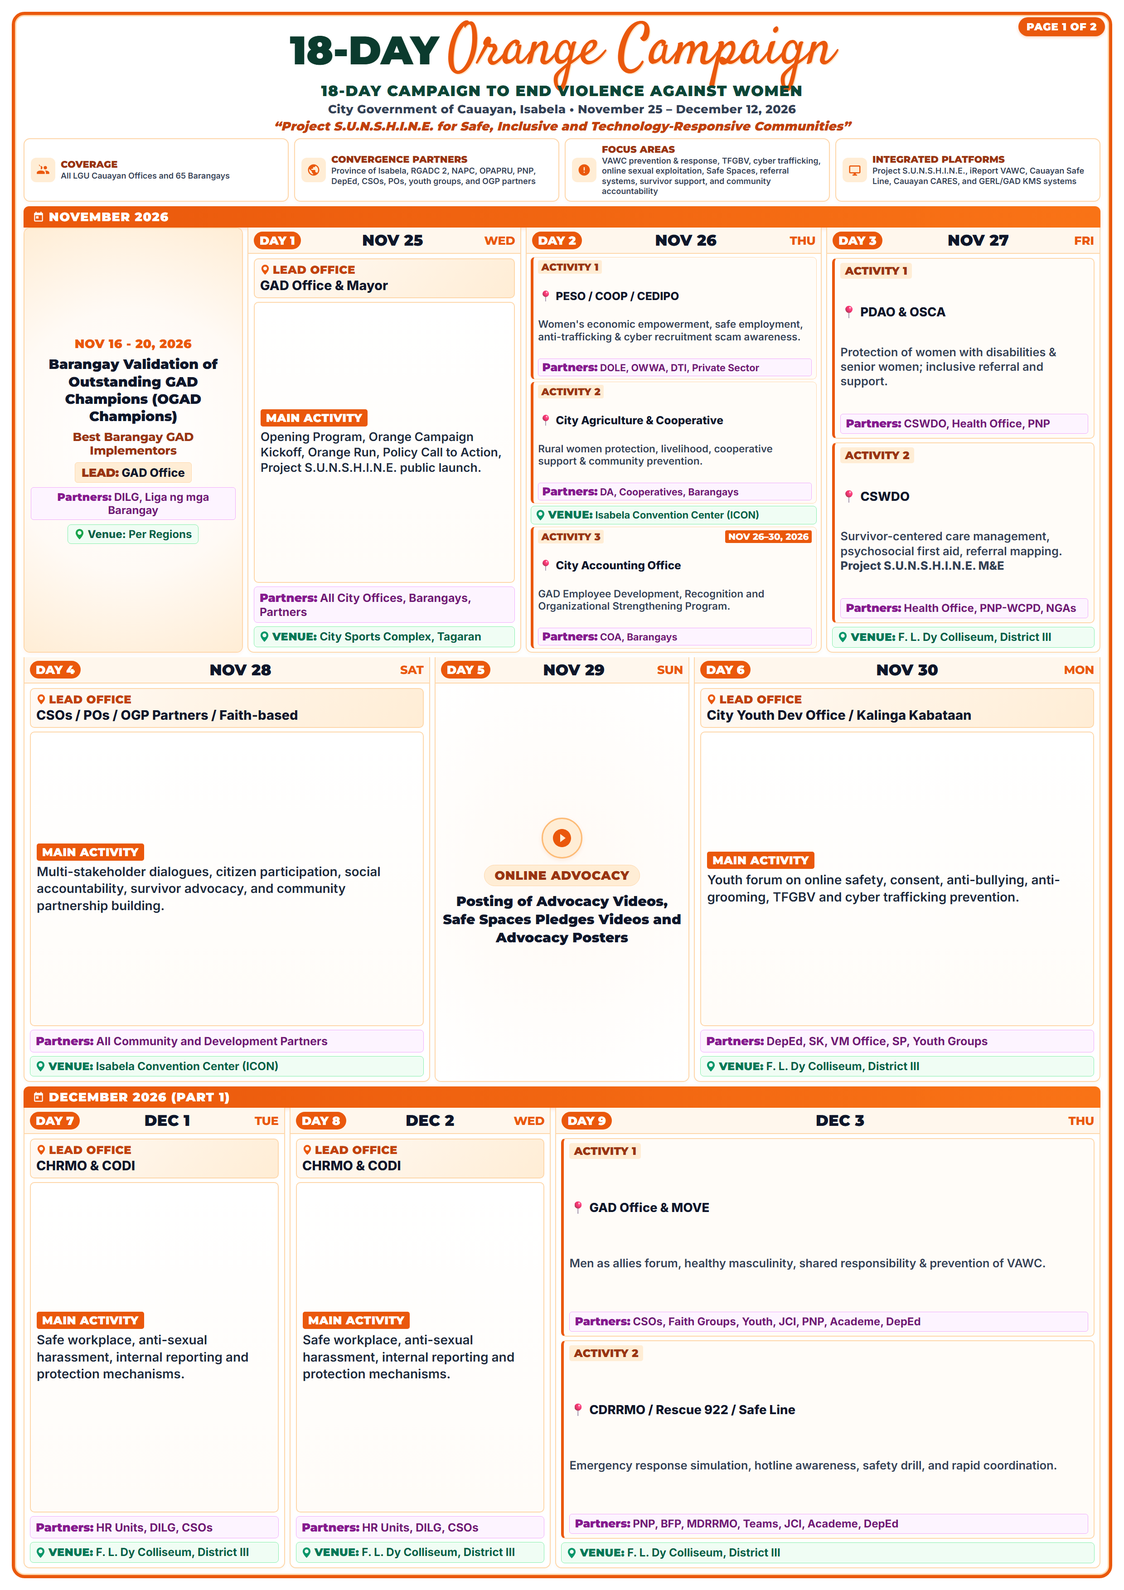
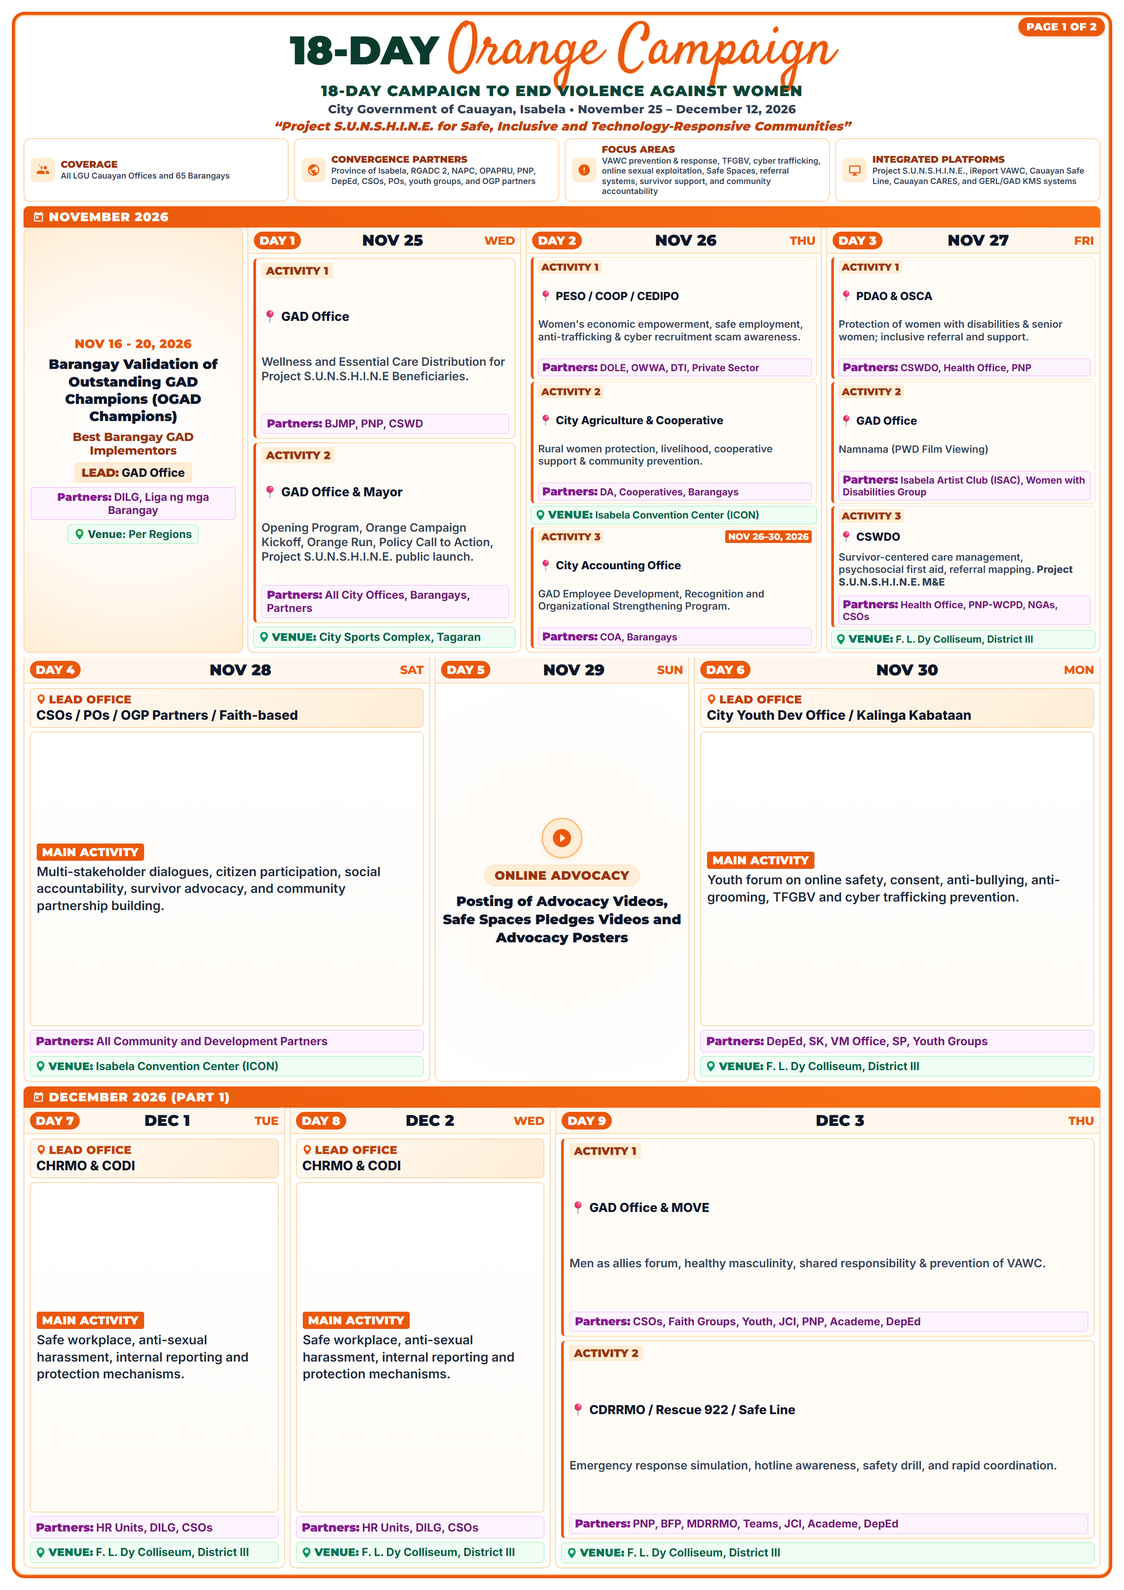
feat: update campaign schedule activities and event details across calendar files

Changed region(s): [[0.2173, 0.1554, 0.4347, 0.4039], [0.7452, 0.1554, 0.9625, 0.4039], [0.3726, 0.1554, 0.4657, 0.1864]]

diff --git a/18-day-campaign-calendar-a3.html b/18-day-campaign-calendar-a3.html
@@ -1110,27 +1110,31 @@
           </div>
         </article>
 
-        <!-- DAY 1 -->
+        <!-- DAY 1 (2 Activities) -->
         <article class="day-card active-day">
           <div class="card-top-bar">
             <span class="day-pill">DAY 1</span>
             <span class="date-text">NOV 25</span>
             <span class="weekday-text">WED</span>
           </div>
-          <div class="card-body-single">
-            <div class="single-lead-block">
-              <span class="lead-tag-row">
-                <svg viewBox="0 0 16 16"><path d="M8 16s6-5.686 6-10A6 6 0 0 0 2 6c0 4.314 6 10 6 10zm0-7a3 3 0 1 1 0-6 3 3 0 0 1 0 6z"/></svg>
-                LEAD OFFICE
-              </span>
-              <span class="single-lead-name">GAD Office & Office of the City Mayor</span>
+          <div class="card-body-multi">
+            <!-- Sub 1 -->
+            <div class="sub-act-item-2">
+              <div class="sub-act-header">ACTIVITY 1</div>
+              <div class="sub-lead-name">📍 GAD Office</div>
+              <div class="sub-act-desc">Wellness and Essential Care Distribution for Project S.U.N.S.H.I.N.E Beneficiaries.</div>
+              <div class="sub-partner-box"><strong>Partners:</strong> BJMP, PNP, CSWD</div>
             </div>
-            <div class="single-act-block">
-              <span class="act-tag-badge">MAIN ACTIVITY</span>
-              <p class="single-act-desc dense">Opening Program, Orange Campaign Kickoff, Parade around the City, Policy Call to Action, Project S.U.N.S.H.I.N.E. public launch for VAWC, TFGBV, cyber trafficking, and online protection.</p>
+            <!-- Sub 2 -->
+            <div class="sub-act-item-2">
+              <div class="sub-act-header">ACTIVITY 2</div>
+              <div class="sub-lead-name">📍 GAD Office & Office of the City Mayor</div>
+              <div class="sub-act-desc">Opening Program, Orange Campaign Kickoff, Parade around the City, Policy Call to Action, Project S.U.N.S.H.I.N.E. public launch.</div>
+              <div class="sub-partner-box"><strong>Partners:</strong> All City Offices, Barangays, Partners</div>
             </div>
-            <div class="single-partner-box">
-              <strong>Partners:</strong> All City Offices, Barangays, Partners
+            <div class="card-venue-box">
+              <svg viewBox="0 0 16 16"><path d="M8 16s6-5.686 6-10A6 6 0 0 0 2 6c0 4.314 6 10 6 10zm0-7a3 3 0 1 1 0-6 3 3 0 0 1 0 6z"/></svg>
+              <span><strong>Venue:</strong> City Sports Complex, Tagaran</span>
             </div>
           </div>
         </article>
@@ -1174,28 +1178,35 @@
           </div>
         </article>
 
-        <!-- DAY 3 (Moved from Day 9: PDAO & OSCA + CSWDO) -->
+        <!-- DAY 3 (3 Activities: PDAO & OSCA, GAD Office, CSWDO) -->
         <article class="day-card active-day">
           <div class="card-top-bar">
             <span class="day-pill">DAY 3</span>
             <span class="date-text">NOV 27</span>
             <span class="weekday-text">FRI</span>
           </div>
-          <div class="card-body-multi">
+          <div class="card-body-3act">
             <!-- Sub 1 -->
-            <div class="sub-act-item-2">
+            <div class="sub-act-item-3">
               <div class="sub-act-header">ACTIVITY 1</div>
               <div class="sub-lead-name">📍 PDAO &amp; OSCA</div>
               <div class="sub-act-desc">Protection of women with disabilities &amp; senior women; inclusive referral and access to support.</div>
               <div class="sub-partner-box"><strong>Partners:</strong> CSWDO, Health Office, PNP</div>
             </div>
-            <!-- Sub 2 -->
-            <div class="sub-act-item-2">
+            <!-- Sub 2 (New Activity) -->
+            <div class="sub-act-item-3">
               <div class="sub-act-header">ACTIVITY 2</div>
+              <div class="sub-lead-name">📍 GAD Office</div>
+              <div class="sub-act-desc">Namnama (PWD Film Viewing)</div>
+              <div class="sub-partner-box"><strong>Partners:</strong> Isabela Artist Club (ISAC), Women with Disabilities Group</div>
+            </div>
+            <!-- Sub 3 (Shifted Activity 2) -->
+            <div class="sub-act-item-3">
+              <div class="sub-act-header">ACTIVITY 3</div>
               <div class="sub-lead-name">📍 CSWDO</div>
-              <div style="display: flex; flex-direction: column; gap: 4px;">
+              <div style="display: flex; flex-direction: column; gap: 3px;">
                 <div class="sub-act-desc">Survivor-centered care management, psychosocial first aid, women and children referral mapping.</div>
-                <div style="font-family: 'Montserrat', sans-serif; font-size: 26px; font-weight: 800; color: #9a3412; background: #ffedd5; border: 1.5px solid #fed7aa; border-radius: 6px; padding: 3px 10px; align-self: flex-start;">Project S.U.N.S.H.I.N.E. Monitoring and Evaluation</div>
+                <div style="font-family: 'Montserrat', sans-serif; font-size: 24px; font-weight: 800; color: #9a3412; background: #ffedd5; border: 1.5px solid #fed7aa; border-radius: 5px; padding: 2px 8px; align-self: flex-start;">Project S.U.N.S.H.I.N.E. M&amp;E</div>
               </div>
               <div class="sub-partner-box"><strong>Partners:</strong> Health Office, PNP-WCPD, NGAs, CSOs</div>
             </div>
@@ -1537,7 +1548,7 @@
           </div>
           <div class="single-act-block">
             <span class="act-tag-badge">MAIN ACTIVITY</span>
-            <p class="single-act-desc dense">Orange Exhibit and Orange Bubble: spoken poetry, declamation, spoken word, creative expression, advocacy through culture, IEC exhibit, public information campaign, and online awareness content.</p>
+            <p class="single-act-desc dense">Painting Competition, Spoken Poetry, Declamation and Wearable Fashion Designing</p>
             <div style="font-family: 'Montserrat', sans-serif; font-size: 29px; font-weight: 800; color: #9a3412; background: #ffedd5; border: 1.5px solid #fed7aa; border-radius: 6px; padding: 4px 12px; align-self: flex-start; margin-top: 2px;">Awarding of Winners</div>
           </div>
           <div class="single-partner-box">

diff --git a/18-day-campaign-calendar.html b/18-day-campaign-calendar.html
@@ -1110,27 +1110,31 @@
           </div>
         </article>
 
-        <!-- DAY 1 -->
+        <!-- DAY 1 (2 Activities) -->
         <article class="day-card active-day">
           <div class="card-top-bar">
             <span class="day-pill">DAY 1</span>
             <span class="date-text">NOV 25</span>
             <span class="weekday-text">WED</span>
           </div>
-          <div class="card-body-single">
-            <div class="single-lead-block">
-              <span class="lead-tag-row">
-                <svg viewBox="0 0 16 16"><path d="M8 16s6-5.686 6-10A6 6 0 0 0 2 6c0 4.314 6 10 6 10zm0-7a3 3 0 1 1 0-6 3 3 0 0 1 0 6z"/></svg>
-                LEAD OFFICE
-              </span>
-              <span class="single-lead-name">GAD Office & Office of the City Mayor</span>
+          <div class="card-body-multi">
+            <!-- Sub 1 -->
+            <div class="sub-act-item-2">
+              <div class="sub-act-header">ACTIVITY 1</div>
+              <div class="sub-lead-name">📍 GAD Office</div>
+              <div class="sub-act-desc">Wellness and Essential Care Distribution for Project S.U.N.S.H.I.N.E Beneficiaries.</div>
+              <div class="sub-partner-box"><strong>Partners:</strong> BJMP, PNP, CSWD</div>
             </div>
-            <div class="single-act-block">
-              <span class="act-tag-badge">MAIN ACTIVITY</span>
-              <p class="single-act-desc dense">Opening Program, Orange Campaign Kickoff, Parade around the City, Policy Call to Action, Project S.U.N.S.H.I.N.E. public launch for VAWC, TFGBV, cyber trafficking, and online protection.</p>
+            <!-- Sub 2 -->
+            <div class="sub-act-item-2">
+              <div class="sub-act-header">ACTIVITY 2</div>
+              <div class="sub-lead-name">📍 GAD Office & Office of the City Mayor</div>
+              <div class="sub-act-desc">Opening Program, Orange Campaign Kickoff, Parade around the City, Policy Call to Action, Project S.U.N.S.H.I.N.E. public launch.</div>
+              <div class="sub-partner-box"><strong>Partners:</strong> All City Offices, Barangays, Partners</div>
             </div>
-            <div class="single-partner-box">
-              <strong>Partners:</strong> All City Offices, Barangays, Partners
+            <div class="card-venue-box">
+              <svg viewBox="0 0 16 16"><path d="M8 16s6-5.686 6-10A6 6 0 0 0 2 6c0 4.314 6 10 6 10zm0-7a3 3 0 1 1 0-6 3 3 0 0 1 0 6z"/></svg>
+              <span><strong>Venue:</strong> City Sports Complex, Tagaran</span>
             </div>
           </div>
         </article>
@@ -1174,28 +1178,35 @@
           </div>
         </article>
 
-        <!-- DAY 3 (Moved from Day 9: PDAO & OSCA + CSWDO) -->
+        <!-- DAY 3 (3 Activities: PDAO & OSCA, GAD Office, CSWDO) -->
         <article class="day-card active-day">
           <div class="card-top-bar">
             <span class="day-pill">DAY 3</span>
             <span class="date-text">NOV 27</span>
             <span class="weekday-text">FRI</span>
           </div>
-          <div class="card-body-multi">
+          <div class="card-body-3act">
             <!-- Sub 1 -->
-            <div class="sub-act-item-2">
+            <div class="sub-act-item-3">
               <div class="sub-act-header">ACTIVITY 1</div>
               <div class="sub-lead-name">📍 PDAO &amp; OSCA</div>
               <div class="sub-act-desc">Protection of women with disabilities &amp; senior women; inclusive referral and access to support.</div>
               <div class="sub-partner-box"><strong>Partners:</strong> CSWDO, Health Office, PNP</div>
             </div>
-            <!-- Sub 2 -->
-            <div class="sub-act-item-2">
+            <!-- Sub 2 (New Activity) -->
+            <div class="sub-act-item-3">
               <div class="sub-act-header">ACTIVITY 2</div>
+              <div class="sub-lead-name">📍 GAD Office</div>
+              <div class="sub-act-desc">Namnama (PWD Film Viewing)</div>
+              <div class="sub-partner-box"><strong>Partners:</strong> Isabela Artist Club (ISAC), Women with Disabilities Group</div>
+            </div>
+            <!-- Sub 3 (Shifted Activity 2) -->
+            <div class="sub-act-item-3">
+              <div class="sub-act-header">ACTIVITY 3</div>
               <div class="sub-lead-name">📍 CSWDO</div>
-              <div style="display: flex; flex-direction: column; gap: 4px;">
+              <div style="display: flex; flex-direction: column; gap: 3px;">
                 <div class="sub-act-desc">Survivor-centered care management, psychosocial first aid, women and children referral mapping.</div>
-                <div style="font-family: 'Montserrat', sans-serif; font-size: 26px; font-weight: 800; color: #9a3412; background: #ffedd5; border: 1.5px solid #fed7aa; border-radius: 6px; padding: 3px 10px; align-self: flex-start;">Project S.U.N.S.H.I.N.E. Monitoring and Evaluation</div>
+                <div style="font-family: 'Montserrat', sans-serif; font-size: 24px; font-weight: 800; color: #9a3412; background: #ffedd5; border: 1.5px solid #fed7aa; border-radius: 5px; padding: 2px 8px; align-self: flex-start;">Project S.U.N.S.H.I.N.E. M&amp;E</div>
               </div>
               <div class="sub-partner-box"><strong>Partners:</strong> Health Office, PNP-WCPD, NGAs, CSOs</div>
             </div>
@@ -1537,7 +1548,7 @@
           </div>
           <div class="single-act-block">
             <span class="act-tag-badge">MAIN ACTIVITY</span>
-            <p class="single-act-desc dense">Orange Exhibit and Orange Bubble: spoken poetry, declamation, spoken word, creative expression, advocacy through culture, IEC exhibit, public information campaign, and online awareness content.</p>
+            <p class="single-act-desc dense">Painting Competition, Spoken Poetry, Declamation and Wearable Fashion Designing</p>
             <div style="font-family: 'Montserrat', sans-serif; font-size: 29px; font-weight: 800; color: #9a3412; background: #ffedd5; border: 1.5px solid #fed7aa; border-radius: 6px; padding: 4px 12px; align-self: flex-start; margin-top: 2px;">Awarding of Winners</div>
           </div>
           <div class="single-partner-box">

diff --git a/18-day-campaign-calendar-a4.html b/18-day-campaign-calendar-a4.html
@@ -1073,27 +1073,25 @@
           </div>
         </article>
 
-        <!-- DAY 1 -->
+        <!-- DAY 1 (2 Activities) -->
         <article class="day-card active-day">
           <div class="card-top-bar">
             <span class="day-pill">DAY 1</span>
             <span class="date-text">NOV 25</span>
             <span class="weekday-text">WED</span>
           </div>
-          <div class="card-body-single">
-            <div class="single-lead-block">
-              <span class="lead-tag-row">
-                <svg viewBox="0 0 16 16"><path d="M8 16s6-5.686 6-10A6 6 0 0 0 2 6c0 4.314 6 10 6 10zm0-7a3 3 0 1 1 0-6 3 3 0 0 1 0 6z"/></svg>
-                LEAD OFFICE
-              </span>
-              <span class="single-lead-name">GAD Office & Mayor</span>
+          <div class="card-body-multi">
+            <div class="sub-act-item-2">
+              <div class="sub-act-header">ACTIVITY 1</div>
+              <div class="sub-lead-name">📍 GAD Office</div>
+              <div class="sub-act-desc">Wellness and Essential Care Distribution for Project S.U.N.S.H.I.N.E Beneficiaries.</div>
+              <div class="sub-partner-box"><strong>Partners:</strong> BJMP, PNP, CSWD</div>
             </div>
-            <div class="single-act-block">
-              <span class="act-tag-badge">MAIN ACTIVITY</span>
-              <p class="single-act-desc dense">Opening Program, Orange Campaign Kickoff, Orange Run, Policy Call to Action, Project S.U.N.S.H.I.N.E. public launch.</p>
-            </div>
-            <div class="single-partner-box">
-              <strong>Partners:</strong> All City Offices, Barangays, Partners
+            <div class="sub-act-item-2">
+              <div class="sub-act-header">ACTIVITY 2</div>
+              <div class="sub-lead-name">📍 GAD Office & Mayor</div>
+              <div class="sub-act-desc">Opening Program, Orange Campaign Kickoff, Orange Run, Policy Call to Action, Project S.U.N.S.H.I.N.E. public launch.</div>
+              <div class="sub-partner-box"><strong>Partners:</strong> All City Offices, Barangays, Partners</div>
             </div>
             <div class="card-venue-box">
               <svg viewBox="0 0 16 16"><path d="M8 16s6-5.686 6-10A6 6 0 0 0 2 6c0 4.314 6 10 6 10zm0-7a3 3 0 1 1 0-6 3 3 0 0 1 0 6z"/></svg>
@@ -1139,25 +1137,31 @@
           </div>
         </article>
 
-        <!-- DAY 3 (2 Activities) -->
+        <!-- DAY 3 (3 Activities: PDAO & OSCA, GAD Office, CSWDO) -->
         <article class="day-card active-day">
           <div class="card-top-bar">
             <span class="day-pill">DAY 3</span>
             <span class="date-text">NOV 27</span>
             <span class="weekday-text">FRI</span>
           </div>
-          <div class="card-body-multi">
-            <div class="sub-act-item-2">
+          <div class="card-body-3act">
+            <div class="sub-act-item-3">
               <div class="sub-act-header">ACTIVITY 1</div>
               <div class="sub-lead-name">📍 PDAO & OSCA</div>
               <div class="sub-act-desc">Protection of women with disabilities & senior women; inclusive referral and support.</div>
               <div class="sub-partner-box"><strong>Partners:</strong> CSWDO, Health Office, PNP</div>
             </div>
-            <div class="sub-act-item-2">
+            <div class="sub-act-item-3">
               <div class="sub-act-header">ACTIVITY 2</div>
+              <div class="sub-lead-name">📍 GAD Office</div>
+              <div class="sub-act-desc">Namnama (PWD Film Viewing)</div>
+              <div class="sub-partner-box"><strong>Partners:</strong> Isabela Artist Club (ISAC), Women with Disabilities Group</div>
+            </div>
+            <div class="sub-act-item-3">
+              <div class="sub-act-header">ACTIVITY 3</div>
               <div class="sub-lead-name">📍 CSWDO</div>
               <div class="sub-act-desc">Survivor-centered care management, psychosocial first aid, referral mapping. <strong>Project S.U.N.S.H.I.N.E. M&E</strong></div>
-              <div class="sub-partner-box"><strong>Partners:</strong> Health Office, PNP-WCPD, NGAs</div>
+              <div class="sub-partner-box"><strong>Partners:</strong> Health Office, PNP-WCPD, NGAs, CSOs</div>
             </div>
             <div class="card-venue-box">
               <svg viewBox="0 0 16 16"><path d="M8 16s6-5.686 6-10A6 6 0 0 0 2 6c0 4.314 6 10 6 10zm0-7a3 3 0 1 1 0-6 3 3 0 0 1 0 6z"/></svg>
@@ -1553,7 +1557,7 @@
             </div>
             <div class="single-act-block">
               <span class="act-tag-badge">MAIN ACTIVITY</span>
-              <p class="single-act-desc dense">Orange Exhibit and Orange Bubble: spoken poetry, declamation, creative expression, IEC exhibit, and public info campaign.</p>
+              <p class="single-act-desc dense">Painting Competition, Spoken Poetry, Declamation and Wearable Fashion Designing</p>
               <div style="font-family: 'Montserrat', sans-serif; font-size: 19px; font-weight: 800; color: #9a3412; background: #ffedd5; border: 1.2px solid #fed7aa; border-radius: 5px; padding: 3px 8px; align-self: flex-start;">Awarding of Winners</div>
             </div>
             <div class="single-partner-box">

diff --git a/18-day-campaign-calendar-a4-page1.html b/18-day-campaign-calendar-a4-page1.html
@@ -978,27 +978,25 @@
           </div>
         </article>
 
-        <!-- DAY 1 -->
+        <!-- DAY 1 (2 Activities) -->
         <article class="day-card active-day">
           <div class="card-top-bar">
             <span class="day-pill">DAY 1</span>
             <span class="date-text">NOV 25</span>
             <span class="weekday-text">WED</span>
           </div>
-          <div class="card-body-single">
-            <div class="single-lead-block">
-              <span class="lead-tag-row">
-                <svg viewBox="0 0 16 16"><path d="M8 16s6-5.686 6-10A6 6 0 0 0 2 6c0 4.314 6 10 6 10zm0-7a3 3 0 1 1 0-6 3 3 0 0 1 0 6z"/></svg>
-                LEAD OFFICE
-              </span>
-              <span class="single-lead-name">GAD Office & Mayor</span>
+          <div class="card-body-multi">
+            <div class="sub-act-item-2">
+              <div class="sub-act-header">ACTIVITY 1</div>
+              <div class="sub-lead-name">📍 GAD Office</div>
+              <div class="sub-act-desc">Wellness and Essential Care Distribution for Project S.U.N.S.H.I.N.E Beneficiaries.</div>
+              <div class="sub-partner-box"><strong>Partners:</strong> BJMP, PNP, CSWD</div>
             </div>
-            <div class="single-act-block">
-              <span class="act-tag-badge">MAIN ACTIVITY</span>
-              <p class="single-act-desc dense">Opening Program, Orange Campaign Kickoff, Orange Run, Policy Call to Action, Project S.U.N.S.H.I.N.E. public launch.</p>
-            </div>
-            <div class="single-partner-box">
-              <strong>Partners:</strong> All City Offices, Barangays, Partners
+            <div class="sub-act-item-2">
+              <div class="sub-act-header">ACTIVITY 2</div>
+              <div class="sub-lead-name">📍 GAD Office & Mayor</div>
+              <div class="sub-act-desc">Opening Program, Orange Campaign Kickoff, Orange Run, Policy Call to Action, Project S.U.N.S.H.I.N.E. public launch.</div>
+              <div class="sub-partner-box"><strong>Partners:</strong> All City Offices, Barangays, Partners</div>
             </div>
             <div class="card-venue-box">
               <svg viewBox="0 0 16 16"><path d="M8 16s6-5.686 6-10A6 6 0 0 0 2 6c0 4.314 6 10 6 10zm0-7a3 3 0 1 1 0-6 3 3 0 0 1 0 6z"/></svg>
@@ -1044,25 +1042,31 @@
           </div>
         </article>
 
-        <!-- DAY 3 (2 Activities) -->
+        <!-- DAY 3 (3 Activities: PDAO & OSCA, GAD Office, CSWDO) -->
         <article class="day-card active-day">
           <div class="card-top-bar">
             <span class="day-pill">DAY 3</span>
             <span class="date-text">NOV 27</span>
             <span class="weekday-text">FRI</span>
           </div>
-          <div class="card-body-multi">
-            <div class="sub-act-item-2">
+          <div class="card-body-3act">
+            <div class="sub-act-item-3">
               <div class="sub-act-header">ACTIVITY 1</div>
               <div class="sub-lead-name">📍 PDAO & OSCA</div>
               <div class="sub-act-desc">Protection of women with disabilities & senior women; inclusive referral and support.</div>
               <div class="sub-partner-box"><strong>Partners:</strong> CSWDO, Health Office, PNP</div>
             </div>
-            <div class="sub-act-item-2">
+            <div class="sub-act-item-3">
               <div class="sub-act-header">ACTIVITY 2</div>
+              <div class="sub-lead-name">📍 GAD Office</div>
+              <div class="sub-act-desc">Namnama (PWD Film Viewing)</div>
+              <div class="sub-partner-box"><strong>Partners:</strong> Isabela Artist Club (ISAC), Women with Disabilities Group</div>
+            </div>
+            <div class="sub-act-item-3">
+              <div class="sub-act-header">ACTIVITY 3</div>
               <div class="sub-lead-name">📍 CSWDO</div>
               <div class="sub-act-desc">Survivor-centered care management, psychosocial first aid, referral mapping. <strong>Project S.U.N.S.H.I.N.E. M&E</strong></div>
-              <div class="sub-partner-box"><strong>Partners:</strong> Health Office, PNP-WCPD, NGAs</div>
+              <div class="sub-partner-box"><strong>Partners:</strong> Health Office, PNP-WCPD, NGAs, CSOs</div>
             </div>
             <div class="card-venue-box">
               <svg viewBox="0 0 16 16"><path d="M8 16s6-5.686 6-10A6 6 0 0 0 2 6c0 4.314 6 10 6 10zm0-7a3 3 0 1 1 0-6 3 3 0 0 1 0 6z"/></svg>

diff --git a/18-day-campaign-calendar-a4-page2.html b/18-day-campaign-calendar-a4-page2.html
@@ -947,7 +947,7 @@
             </div>
             <div class="single-act-block">
               <span class="act-tag-badge">MAIN ACTIVITY</span>
-              <p class="single-act-desc dense">Orange Exhibit and Orange Bubble: spoken poetry, declamation, creative expression, IEC exhibit, and public info campaign.</p>
+              <p class="single-act-desc dense">Painting Competition, Spoken Poetry, Declamation and Wearable Fashion Designing</p>
               <div style="font-family: 'Montserrat', sans-serif; font-size: 19px; font-weight: 800; color: #9a3412; background: #ffedd5; border: 1.2px solid #fed7aa; border-radius: 5px; padding: 3px 8px; align-self: flex-start;">Awarding of Winners</div>
             </div>
             <div class="single-partner-box">
